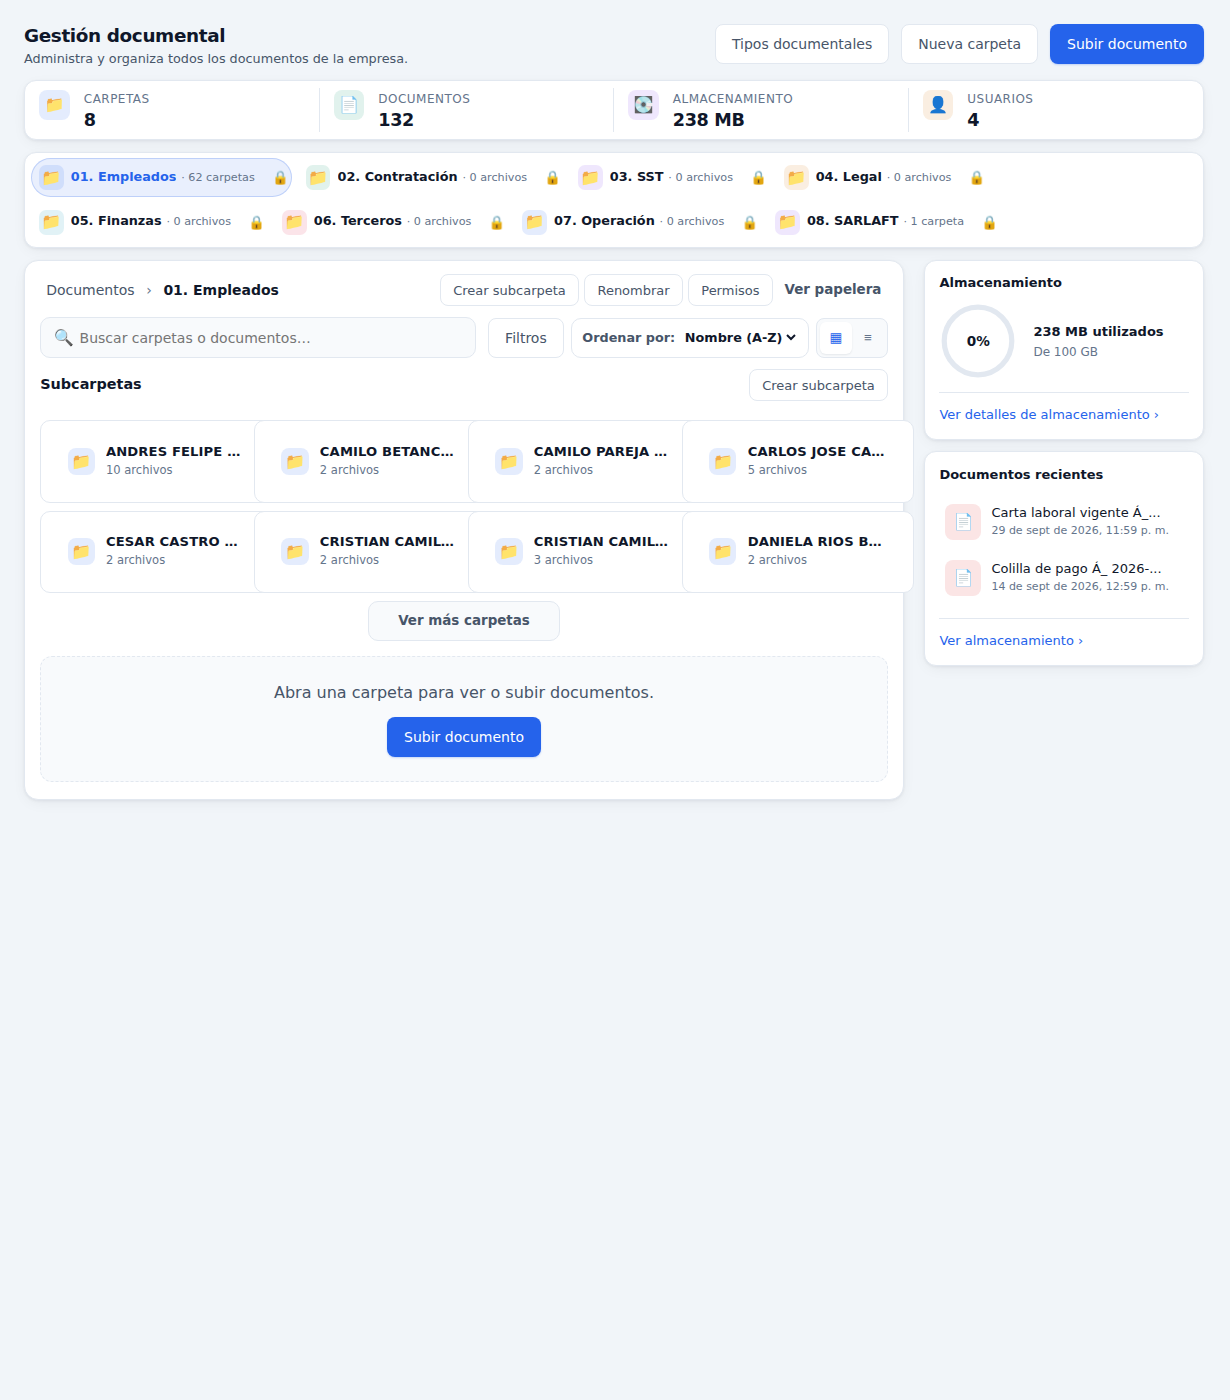
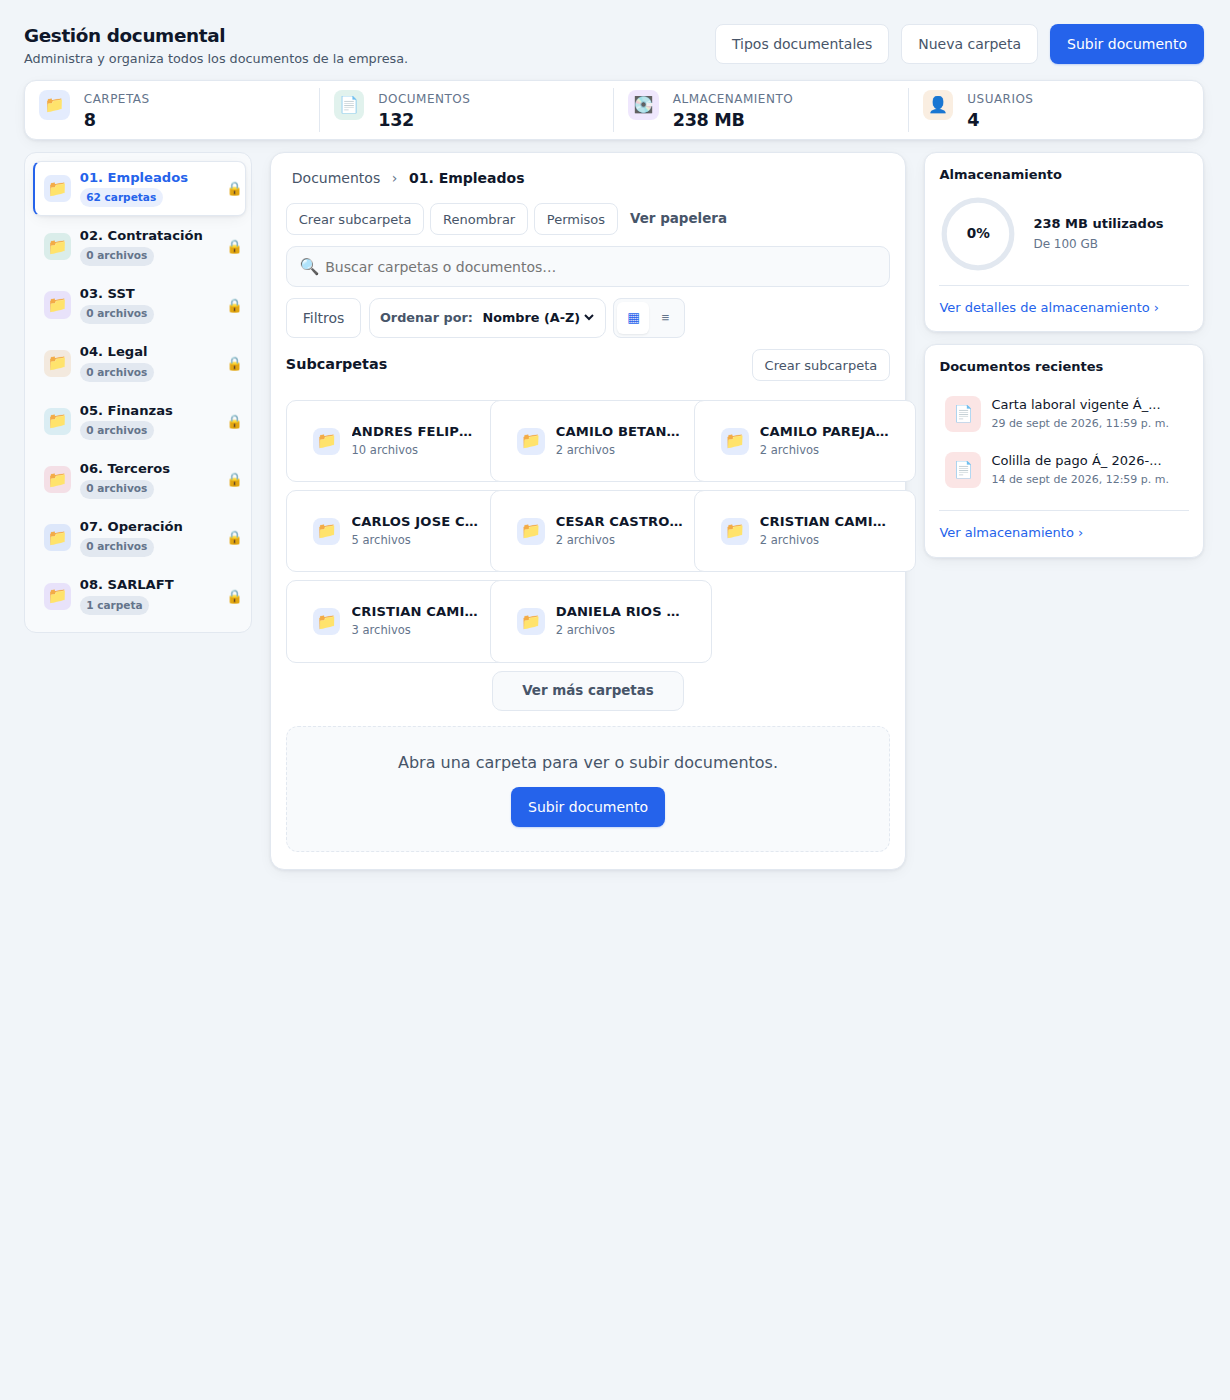
Se actualiza modulo de gestion documental

Changed region(s): [[0.0309, 0.0921, 0.9577, 0.4607], [0.2163, 0.4914, 0.6179, 0.6143], [0.1854, 0.2764, 0.2163, 0.3071]]

diff --git a/styles/gestion-documental.css b/styles/gestion-documental.css
@@ -330,9 +330,20 @@
 
 .documents-studio.doc-studio .doc-layout {
   display: grid;
-  grid-template-columns: minmax(0, 1fr) 280px;
-  gap: 1.25rem;
+  grid-template-columns: 228px minmax(0, 1fr) 280px;
+  gap: 1.1rem;
   align-items: start;
+}
+
+/* Vista de papelera: sin la columna de resumen/recientes de la derecha. */
+.documents-studio.doc-studio .doc-layout--simple {
+  grid-template-columns: 228px minmax(0, 1fr);
+}
+
+.documents-studio.doc-studio .doc-side-nav {
+  min-width: 0;
+  position: sticky;
+  top: 1rem;
 }
 
 .documents-studio.doc-studio .doc-main {
@@ -2650,40 +2661,49 @@ body[data-theme="dark"] .doc-perm-users-wrap {
 /* Antes: rejilla de tarjetas grandes (2-3 filas). Ahora: una sola franja de
    pestañas — mismo dato (ícono, nombre, conteo, candado de permisos) pero en
    una línea compacta, como una barra de pestañas de escritorio. */
+/* Antes (tarjetas grandes en grilla) → luego (franja de pestañas horizontal) →
+   ahora: rail de navegación vertical, con superficie propia (tono gris sutil)
+   para que se lea como "navegación" y no compita con el contenido blanco. */
 .documents-studio.doc-studio .doc-categories {
   display: flex;
-  flex-wrap: wrap;
-  gap: 0.35rem;
-  padding: 0.35rem;
-  background: var(--doc-surface);
+  flex-direction: column;
+  gap: 0.15rem;
+  padding: 0.5rem;
+  background: var(--doc-surface-2);
   border: 1px solid var(--doc-border);
   border-radius: var(--doc-radius);
-  box-shadow: var(--doc-shadow);
 }
 
 .documents-studio.doc-studio .doc-cat-card {
   position: relative;
   display: flex;
   align-items: center;
-  flex: 0 0 auto;
+  width: 100%;
   border: 1px solid transparent;
-  border-radius: 999px;
+  border-left: 2.5px solid transparent;
+  border-radius: 8px;
   background: transparent;
   transition: border-color var(--doc-fast), box-shadow var(--doc-fast), background var(--doc-fast);
 }
 
+.documents-studio.doc-studio .doc-cat-card:not(.is-active):hover {
+  background: rgba(15, 23, 42, 0.045);
+}
+
 .documents-studio.doc-studio .doc-cat-card.is-active {
-  border-color: rgba(37, 99, 235, 0.22);
-  background: var(--doc-primary-soft);
-  box-shadow: none;
+  border-color: var(--doc-border);
+  border-left-color: var(--doc-primary);
+  background: var(--doc-surface);
+  box-shadow: var(--doc-shadow);
 }
 
 .documents-studio.doc-studio .doc-cat-card__open {
   display: flex;
   align-items: center;
-  gap: 0.45rem;
-  width: auto;
-  padding: 0.38rem 0.7rem 0.38rem 0.45rem;
+  gap: 0.55rem;
+  flex: 1 1 auto;
+  min-width: 0;
+  padding: 0.5rem 0.55rem;
   border: 0;
   background: transparent;
   text-align: left;
@@ -2694,16 +2714,16 @@ body[data-theme="dark"] .doc-perm-users-wrap {
 
 .documents-studio.doc-studio .doc-cat-card__icon {
   flex-shrink: 0;
-  width: 1.55rem;
-  height: 1.55rem;
+  width: 1.7rem;
+  height: 1.7rem;
   border-radius: 7px;
   display: grid;
   place-items: center;
 }
 
 .documents-studio.doc-studio .doc-cat-card__icon svg {
-  width: 0.8rem;
-  height: 0.8rem;
+  width: 0.9rem;
+  height: 0.9rem;
 }
 
 .documents-studio.doc-studio .doc-cat-card__icon--blue { background: var(--doc-tone-blue-soft); color: var(--doc-tone-blue); }
@@ -2713,37 +2733,51 @@ body[data-theme="dark"] .doc-perm-users-wrap {
 .documents-studio.doc-studio .doc-cat-card__icon--cyan { background: var(--doc-tone-cyan-soft); color: var(--doc-tone-cyan); }
 .documents-studio.doc-studio .doc-cat-card__icon--rose { background: var(--doc-tone-rose-soft); color: var(--doc-tone-rose); }
 
+/* En columna, no en línea: a 208px de ancho, el nombre + una insignia de
+   conteo en la misma fila dejaba casi sin espacio al nombre (se veía "0…" en
+   vez de "01. Empleados"). Apilado, el nombre siempre tiene el ancho completo. */
 .documents-studio.doc-studio .doc-cat-card__body {
   display: flex;
-  flex-direction: row;
-  align-items: baseline;
-  gap: 0.3rem;
+  flex-direction: column;
+  align-items: flex-start;
+  gap: 0.15rem;
+  flex: 1 1 auto;
   min-width: 0;
 }
 
 .documents-studio.doc-studio .doc-cat-card__name {
-  font-size: 0.8rem;
-  font-weight: 700;
+  font-size: 0.82rem;
+  font-weight: 600;
   color: var(--doc-text);
   line-height: 1.25;
-  max-width: 13rem;
+  width: 100%;
+  max-width: none;
   white-space: nowrap;
   overflow: hidden;
   text-overflow: ellipsis;
-  word-break: break-word;
 }
 
 .documents-studio.doc-studio .doc-cat-card.is-active .doc-cat-card__name {
   color: var(--doc-primary);
+  font-weight: 700;
 }
 
+/* El conteo ahora es una insignia redondeada a la derecha (patrón típico de
+   rail de navegación), no texto en línea con el nombre. */
 .documents-studio.doc-studio .doc-cat-card__meta {
-  font-size: 0.7rem;
+  flex-shrink: 0;
+  font-size: 0.66rem;
+  font-weight: 700;
   color: var(--doc-text-faint);
+  background: var(--doc-border);
+  padding: 0.1rem 0.4rem;
+  border-radius: 999px;
+  white-space: nowrap;
 }
 
-.documents-studio.doc-studio .doc-cat-card__meta::before {
-  content: "· ";
+.documents-studio.doc-studio .doc-cat-card.is-active .doc-cat-card__meta {
+  color: var(--doc-primary);
+  background: var(--doc-primary-soft);
 }
 
 /* El candado queda en el flujo normal (no absoluto) y siempre reserva su
@@ -3108,15 +3142,17 @@ body[data-theme="dark"] .doc-perm-users-wrap {
 }
 
 @media (max-width: 1100px) {
-  .documents-studio.doc-studio .doc-categories {
-    grid-template-columns: repeat(3, minmax(0, 1fr));
+  /* El rail de categorías se apila arriba (grid-template-columns:1fr en
+     .doc-layout) y queda a ancho completo; sigue siendo una lista vertical,
+     solo que ya no necesita truncar tanto el nombre. */
+  .documents-studio.doc-studio .doc-cat-card__name {
+    max-width: none;
   }
 
   .documents-studio.doc-studio .doc-subfolder-grid {
     grid-template-columns: repeat(2, minmax(0, 1fr));
   }
 
-  .documents-studio.doc-studio .doc-cat-card__name,
   .documents-studio.doc-studio .doc-subfolder-card__name,
   .documents-studio.doc-studio .doc-folder-card__name {
     white-space: normal;
@@ -3124,7 +3160,6 @@ body[data-theme="dark"] .doc-perm-users-wrap {
     text-overflow: unset;
   }
 
-  .documents-studio.doc-studio .doc-cat-card__open,
   .documents-studio.doc-studio .doc-subfolder-card__open {
     align-items: flex-start;
   }
@@ -3144,7 +3179,6 @@ body[data-theme="dark"] .doc-perm-users-wrap {
 }
 
 @media (max-width: 720px) {
-  .documents-studio.doc-studio .doc-categories,
   .documents-studio.doc-studio .doc-kpi-grid--compact {
     grid-template-columns: 1fr 1fr;
   }
@@ -3177,10 +3211,6 @@ body[data-theme="dark"] .doc-perm-users-wrap {
 }
 
 @media (max-width: 480px) {
-  .documents-studio.doc-studio .doc-categories {
-    grid-template-columns: 1fr;
-  }
-
   .documents-studio.doc-studio .doc-cat-card__name {
     font-size: 0.88rem;
   }

diff --git a/index.html b/index.html
@@ -114,7 +114,7 @@
     <link rel="stylesheet" href="./styles/payroll-module.css?v=20260930-employee-filters-fix" media="print" onload="this.onload=null;this.media='all'" />
     <link rel="stylesheet" href="./styles/hiring-module.css?v=20260804-hiring-candidate-fix" media="print" onload="this.onload=null;this.media='all'" />
     <link rel="stylesheet" href="./styles/sst-module.css?v=20260714-sst-operate-ui" media="print" onload="this.onload=null;this.media='all'" />
-    <link rel="stylesheet" href="./styles/gestion-documental.css?v=20260930c-compact-ui" media="print" onload="this.onload=null;this.media='all'" />
+    <link rel="stylesheet" href="./styles/gestion-documental.css?v=20260930d-sidenav" media="print" onload="this.onload=null;this.media='all'" />
     <link rel="stylesheet" href="./styles/sarlaft-module.css?v=20260916-sarlaft-matrix" media="print" onload="this.onload=null;this.media='all'" />
     <link rel="stylesheet" href="./styles/b2b-module.css?v=20260626-cards-flex-fill" media="print" onload="this.onload=null;this.media='all'" />
     <link rel="stylesheet" href="./styles/admin-users-module.css?v=20260626-cards-flex-fill" media="print" onload="this.onload=null;this.media='all'" />
@@ -143,7 +143,7 @@
       <link rel="stylesheet" href="./styles/payroll-module.css?v=20260930-employee-filters-fix" />
       <link rel="stylesheet" href="./styles/hiring-module.css?v=20260804-hiring-candidate-fix" />
       <link rel="stylesheet" href="./styles/sst-module.css?v=20260714-sst-operate-ui" />
-      <link rel="stylesheet" href="./styles/gestion-documental.css?v=20260930c-compact-ui" />
+      <link rel="stylesheet" href="./styles/gestion-documental.css?v=20260930d-sidenav" />
       <link rel="stylesheet" href="./styles/sarlaft-module.css?v=20260916-sarlaft-matrix" />
       <link rel="stylesheet" href="./styles/b2b-module.css?v=20260626-cards-flex-fill" />
       <link rel="stylesheet" href="./styles/admin-users-module.css?v=20260626-cards-flex-fill" />
@@ -1587,7 +1587,7 @@
     <script defer src="./modules/app/contratacion-html.js?v=20260917-contract-live-name"></script>
     <script defer src="./modules/app/contratacion.js?v=20260917-contract-live-name"></script>
     <script type="module" src="./modules/app/cumplimiento-laboral.js"></script>
-    <script type="module" src="./modules/app/gestion-documental.js?v=20260930-bulk-select-docs"></script>
+    <script type="module" src="./modules/app/gestion-documental.js?v=20260930b-sidenav"></script>
     <script type="module" src="./modules/app/sarlaft.js?v=20260917b-login-scan-shield"></script>
     <script defer src="./modules/app/contacto-b2b.js"></script>
     <script defer src="./modules/app/usuarios-permisos.js?v=20260930-eye-toggle-icon"></script>

diff --git a/modules/app/gestion-documental.js b/modules/app/gestion-documental.js
@@ -1170,11 +1170,15 @@ function renderDocumentManagementShell() {
           });
     return `<section class="documents-studio doc-studio doc-studio--explorer">
       ${renderHeader(ui, IC)}
-      ${renderCategoryRail(topFolders, ui, IC)}
-      <div class="doc-explorer">
-        ${renderExplorerPath(ui, IC)}
-        ${renderExplorerToolbar(ui, IC)}
-        <section class="doc-docs-panel" aria-label="Papelera">${trashBody}</section>
+      <div class="doc-layout doc-layout--simple">
+        <aside class="doc-side-nav" aria-label="Carpetas principales">${renderCategoryRail(topFolders, ui, IC)}</aside>
+        <div class="doc-main">
+          <div class="doc-explorer">
+            ${renderExplorerPath(ui, IC)}
+            ${renderExplorerToolbar(ui, IC)}
+            <section class="doc-docs-panel" aria-label="Papelera">${trashBody}</section>
+          </div>
+        </div>
       </div>
     </section>`;
   }
@@ -1242,8 +1246,8 @@ function renderDocumentManagementShell() {
     ${renderHeader(ui, IC)}
     ${renderKpis(summary, IC)}
     ${renderValidityBanner(summary)}
-    ${renderCategoryRail(topFolders, ui, IC)}
     <div class="doc-layout">
+      <aside class="doc-side-nav" aria-label="Carpetas principales">${renderCategoryRail(topFolders, ui, IC)}</aside>
       <div class="doc-main">
         <div class="doc-explorer">
           ${renderExplorerPath(ui, IC)}
